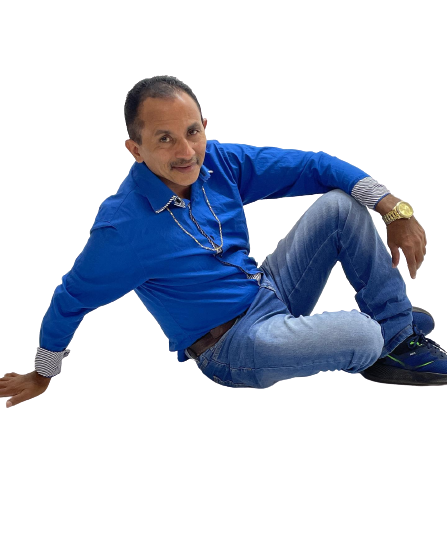
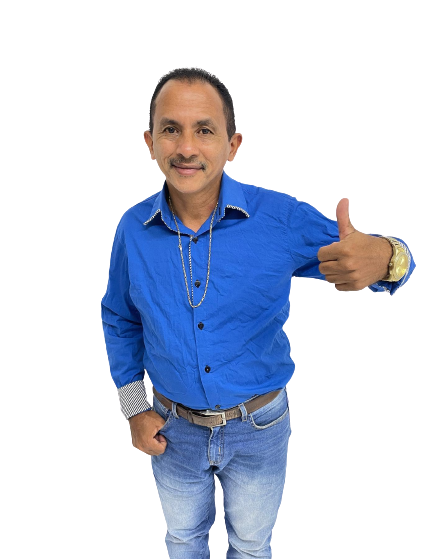
Estilizações e animações da página Sobre
Estilizações e animações da página Sobre

diff --git a/css/stylesheet.css b/css/stylesheet.css
@@ -1,108 +1,187 @@
-
-  @import url('https://fonts.googleapis.com/css2?family=Inter:wght@100..900&family=Wix+Madefor+Text&display=swap');
+@import url('https://fonts.googleapis.com/css2?family=Inter:wght@100..900&family=Wix+Madefor+Text&display=swap');
 
 /* Reset de estilos */
 * {
-    margin: 0;
-    padding: 0;
-    box-sizing: border-box;
-    font-family: 'Inter', sans-serif;
-    font-family: 'Wix Madefor Text', sans-serif;
+  margin: 0;
+  padding: 0;
+  box-sizing: border-box;
+  font-family: 'Inter', sans-serif;
+  font-family: 'Wix Madefor Text', sans-serif;
 }
 
 body {
-    background-image: url("../img/background.jpg");
-    background-size: cover;
-    
+  background-image: url("../img/background.jpg");
+  background-size: cover;
+
 }
 
 .header {
-    position: fixed;
-    top: 0;
-    left: 0;
-    width: 100%;
-    padding: 25px 100px;
-    background: transparent;
-    display: flex;
-    justify-content: space-between;
-    align-items: center;
-    z-index: 100;
+  position: fixed;
+  top: 0;
+  left: 0;
+  width: 100%;
+  padding: 25px 100px;
+  background: transparent;
+  display: flex;
+  justify-content: space-between;
+  align-items: center;
+  z-index: 100;
 }
 
-.logo{
-    font-size: 32px;
-    color: #55009b;
-    text-decoration: none;
-    font-weight: 700;
-    transition: transform 0.3s ease;
+.logo {
+  font-size: 32px;
+  color: #55009b;
+  text-decoration: none;
+  font-weight: 700;
+  transition: transform 0.3s ease;
 }
 
-.logo:hover{
+.logo:hover {
   transform: scale(1.1);
 }
 
 .navbar a {
-    position: relative;
-    font-size: 18px;
-    color: #7503df;
-    font-weight: 500;
-    text-decoration: none;
-    margin-left: 40px;
+  position: relative;
+  font-size: 18px;
+  color: #7503df;
+  font-weight: 500;
+  text-decoration: none;
+  margin-left: 40px;
 }
 
-.navbar a::before{
-    content: '';
-    position: absolute;
-    top: 100%;
-    left: 0;
-    width: 0;
-    height: 2px;
-    background: #55009b;
-    transition: .3s;
+.navbar a::before {
+  content: '';
+  position: absolute;
+  top: 100%;
+  left: 0;
+  width: 0;
+  height: 2px;
+  background: #55009b;
+  transition: .3s;
 }
 
-.navbar a:hover::before{
-    width: 100%;
+.navbar a:hover::before {
+  width: 100%;
 }
 
 /* Estilos gerais */
 
 @media screen and (max-width: 768px) {
-    /* Ajustes para telas menores */
-    .header {
-      padding: 15px 20px;
-    }
-  
-    .logo {
-      font-size: 24px;
-    }
-  
-    .navbar {
-      flex-direction: column;
-      align-items: flex-start;
-      margin-top: 10px;
-    }
-  
-    .navbar a {
-      margin: 10px 0;
-      margin-left: 0;
-    }
-  }
-  
-  .body-title{
-    display: flex;
-    align-items: center;
-    justify-content: center;
-  position: relative;
+
+  /* Ajustes para telas menores */
+  .header {
+    padding: 15px 20px;
   }
 
-.body-title::after {
-    content: "";
-    display: block;
-    width: 10%; /* Ajuste conforme necessário */
-    height: 1px;
-    background-color: #ffffff; /* Cor da linha */
-    position: absolute
-    bottom: -5px; /* Ajuste conforme necessário */
-    left: 0;
+  .logo {
+    font-size: 24px;
+  }
+
+  .navbar {
+    flex-direction: column;
+    align-items: flex-start;
+    margin-top: 10px;
+  }
+
+  .navbar a {
+    margin: 10px 0;
+    margin-left: 0;
+  }
+}
+
+.body-title {
+  display: flex;
+  align-items: center;
+  justify-content: center;
+  position: relative;
+  color: #55009b;
+  font-size: 60px;
+}
+
+.surgindo-texto h1 {
+  opacity: 0;
+  animation: surgirTexto 0.5s ease-out forwards;
+  transform-origin: center bottom;
+}
+
+@keyframes surgirTexto {
+  from {
+    opacity: 0;
+    transform: translateY(50px) scale(0.5);
+  }
+
+  to {
+    opacity: 1;
+    transform: translateY(0) scale(1);
+  }
+}
+
+Neste exemplo .image-container {
+  overflow: hidden;
+}
+
+.surgindo {
+  opacity: 0;
+  animation: surgirDaDireita 1.5s ease-out forwards;
+}
+
+@keyframes surgirDaDireita {
+  from {
+    opacity: 0;
+    transform: translateX(100%);
+  }
+
+  to {
+    opacity: 1;
+    transform: translateX(0);
+  }
+}
+
+.transparent-background {
+  background-color: rgba(255, 255, 255, 0.2);
+  /* Fundo transparente, ajuste a opacidade conforme necessário */
+  overflow: hidden;
+}
+
+.message{
+  display: flex;
+  width: 300px;
+  animation: digitando 1s steps(20), blink .7s infinite;
+  white-space: nowrap;
+  overflow: hidden;
+  border-right: 2px solid;
+  color:#7503df;
+  font-size: 72px;
+  position:absolute;
+  top:50%;
+  left:50%;
+  transform:translate(-50%,-50%);
+  max-width: 90%;
+
+}
+
+@keyframes digitando{
+  from{
+      width: 0;
+  }
+}
+
+@keyframes blink{
+  40%{
+      border-color: rgba(255, 255, 255, 0.2);
+  }
+}
+
+.texto-corpo {
+  display: flex;
+  justify-content: center;
+  align-items: center;
+  text-align: center;
+  padding: 20px; /* Adicione algum preenchimento para evitar que o conteúdo atinja as bordas */
+}
+
+@media (max-width: 768px) {
+  .texto-corpo {
+    flex-direction: column; /* Muda para coluna em telas menores */
+  }
 }

diff --git a/pages/sobre.html b/pages/sobre.html
@@ -5,9 +5,23 @@
     <meta name="viewport" content="width=device-width, initial-scale=1.0">
     <title>Sobre</title>
     <link rel="stylesheet" href="../css/stylesheet.css">
+
 </head>
 <body>
     <object type="text/html" data="../objects/header.html" style="width:100%"></object>
-    <h1 class="body-title">Sobre mim</h1>
+    <div class="surgindo-texto">
+        <h1 class="body-title">Quem sou eu?</h1>
+    </div>
+
+    
+<div class="transparent-background">
+    <div class="image-container">
+        <img src="../img/sobre.png" alt="Imagem" class="surgindo">
+    </div>
+    <div class="texto-corpo">
+        <h1 class="message">Não sei...<span id="cursor">&nbsp;</span></h1>
+    </div>
+</div>
+<script src="../js/typing.js"></script>
 </body>
 </html>
